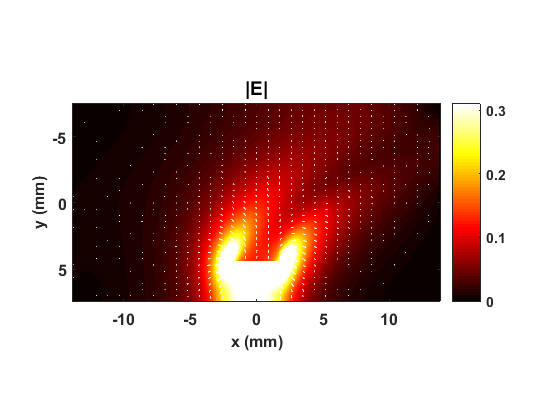
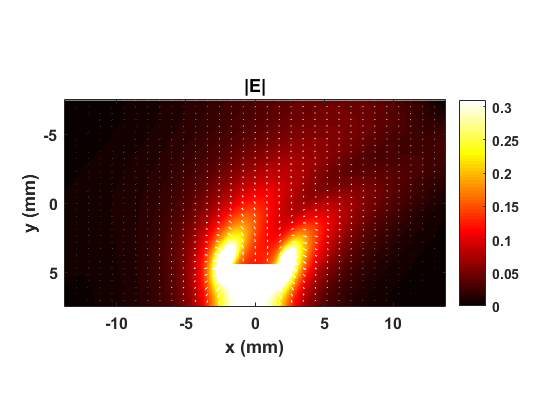
Major changes to AnisotropicTL file.

Changed region(s): [[0.0304, 0.1857, 0.9411, 0.8048], [0.3946, 0.8048, 0.5161, 0.8667], [0.5161, 0.3405, 0.5464, 0.3714]]

diff --git a/AnisoMicroStrip.m b/AnisoMicroStrip.m
@@ -110,7 +110,7 @@ ER2yy = ER2xx;
 for ny = 1 : Ny2
   
   % CALCULATE FUNCTION TO LINEARLY ROTATE TENSOR
-  y = (ny)*dx2;
+  y = (ny - 1)*dx2;
   
   % CALCULATE ANGLE OF ROTATION
   PHI = (y/h)*(10*degrees);
